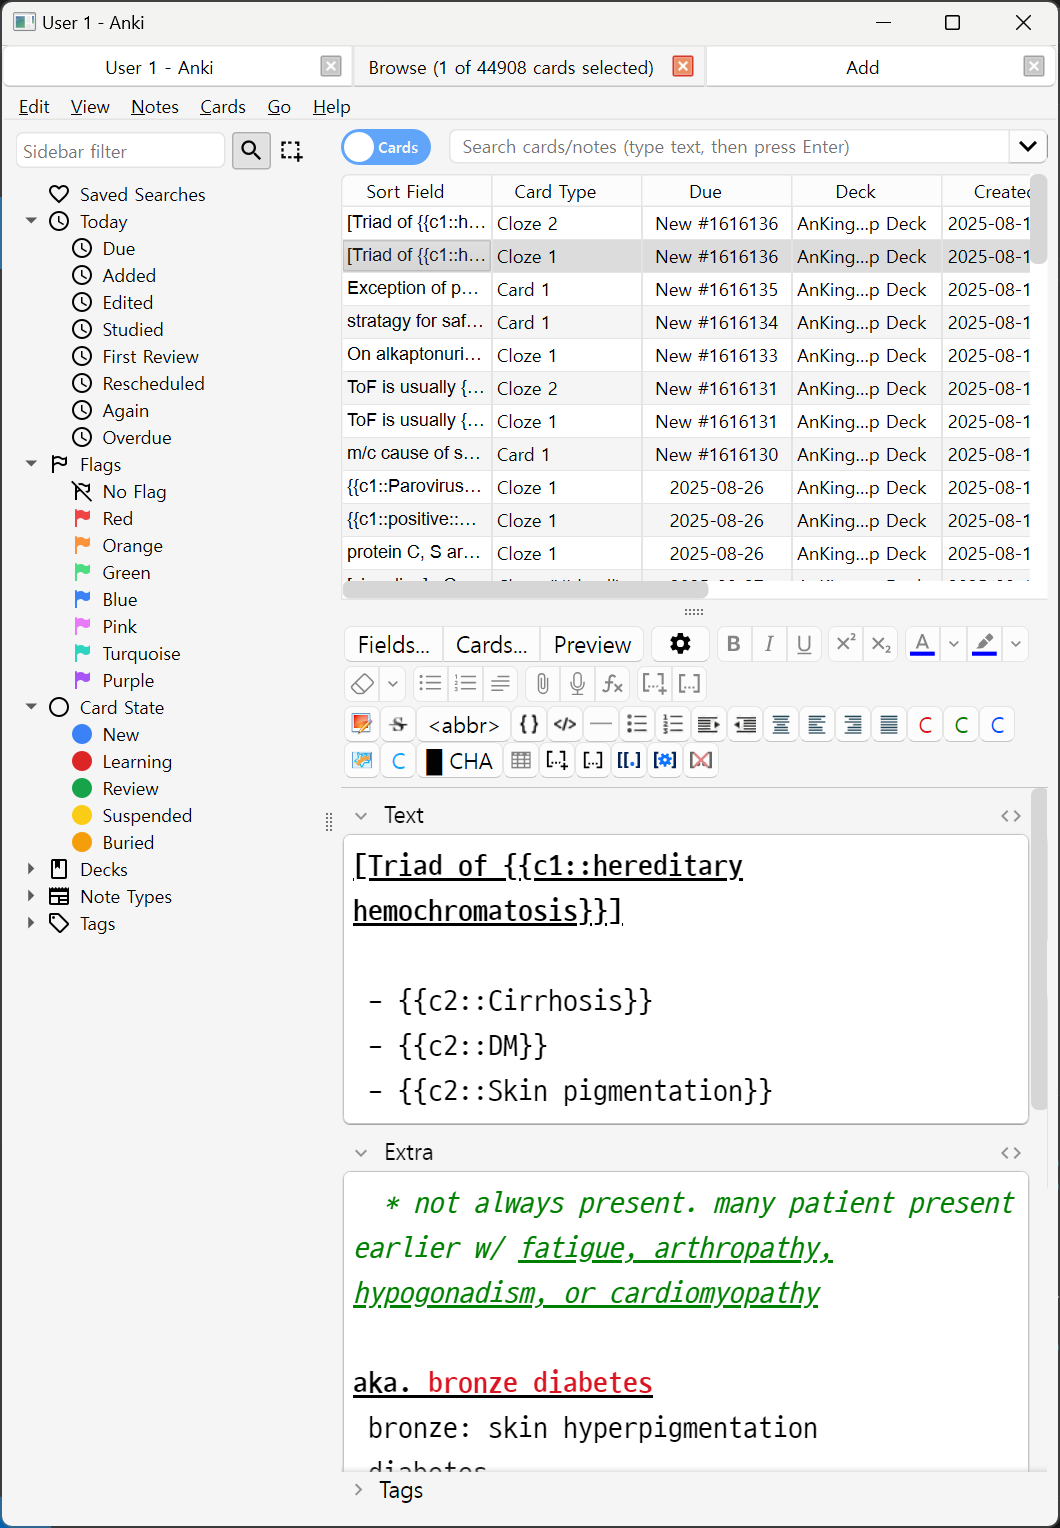
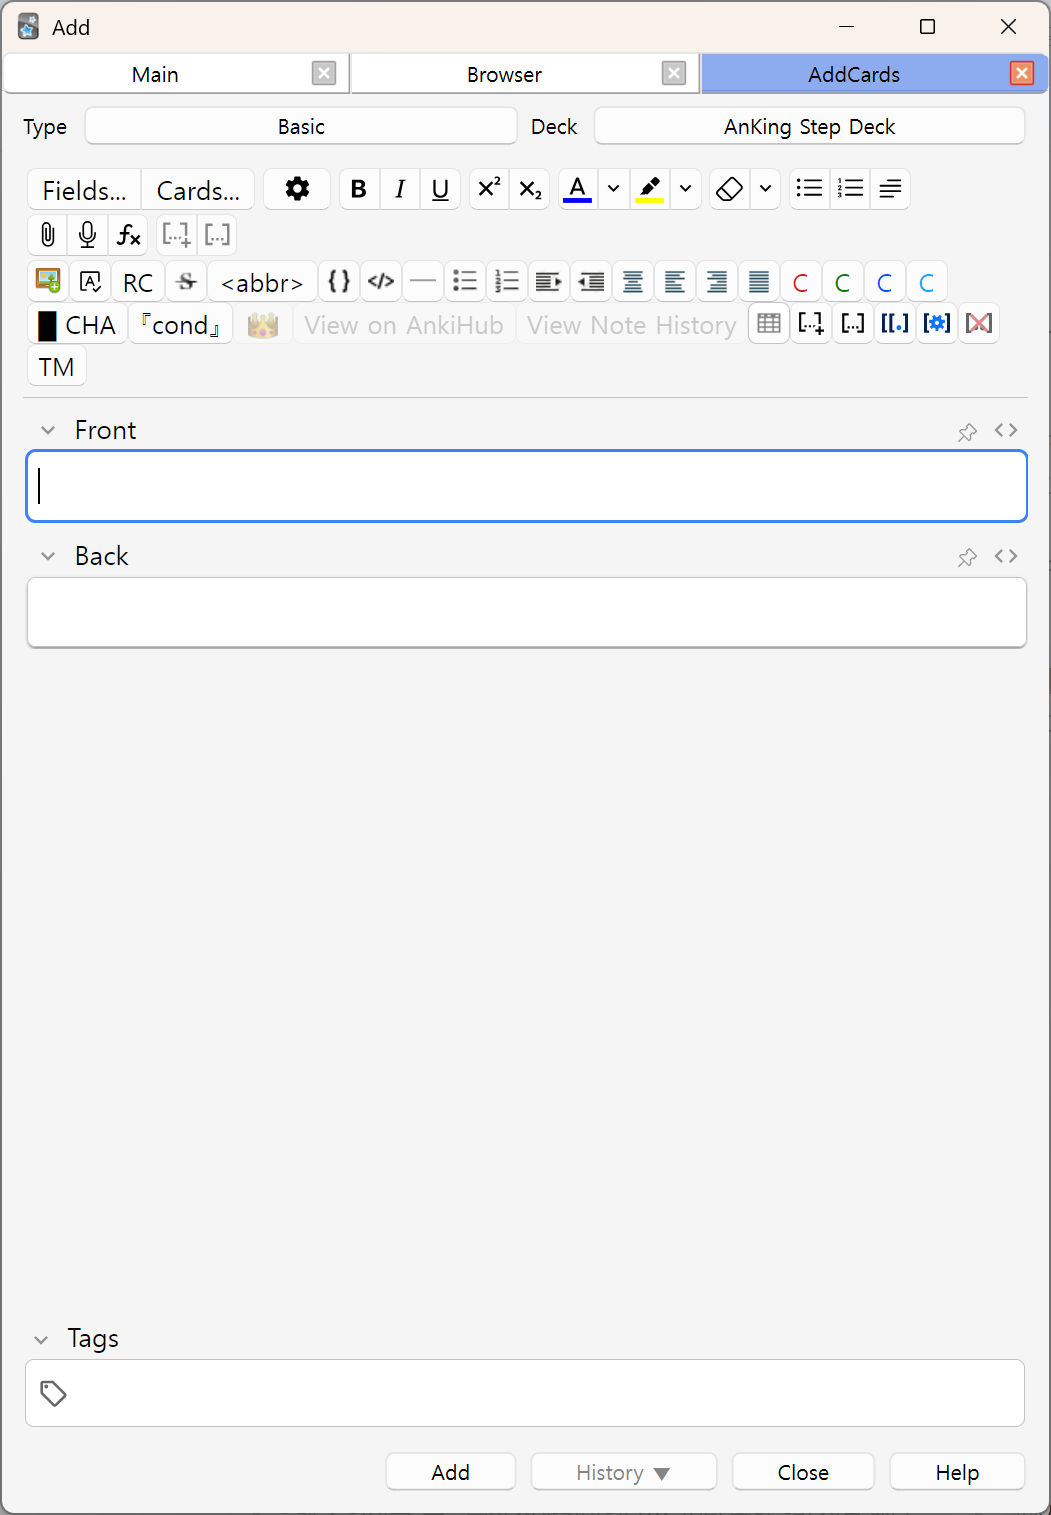
feat: removed scary warnings on readme

diff --git a/README.md b/README.md
@@ -1,6 +1,6 @@
 # Tabbed Anki
 
-Manage various anki windows with tabs. Useful when reviewing in small form factor screens. I hope anki add this upstream!
+Manage various anki windows with tabs. Useful when reviewing in small form factor screens or split screens.
 
 ![example](images/example.png)
 
@@ -16,12 +16,3 @@ cd tabbed-anki
 npm i
 npm run link
 ```
-
-# Manual uninstall guide
-
-Since this addon touches the core UI of Anki, it might break something that **bricks the Anki itself**. It had been reported that some users were not even able to access addon manager window due to the malfunctioning addon. So before this addon comes out of the alpha, I'll leave the manual uninstallation method here.
-
-> Manual below is for Windows OS. For macOS/linux users, amend the path appropriately.
-
-1. With `Win+R`, open the path `%AppData%\Anki2\addons21\` ![window run](./images/removal_process.png)
-2. Remove the folder `916531152` (if you installed it from AnkiWeb) or `tabbed-anki` (if you git cloned the repo)
